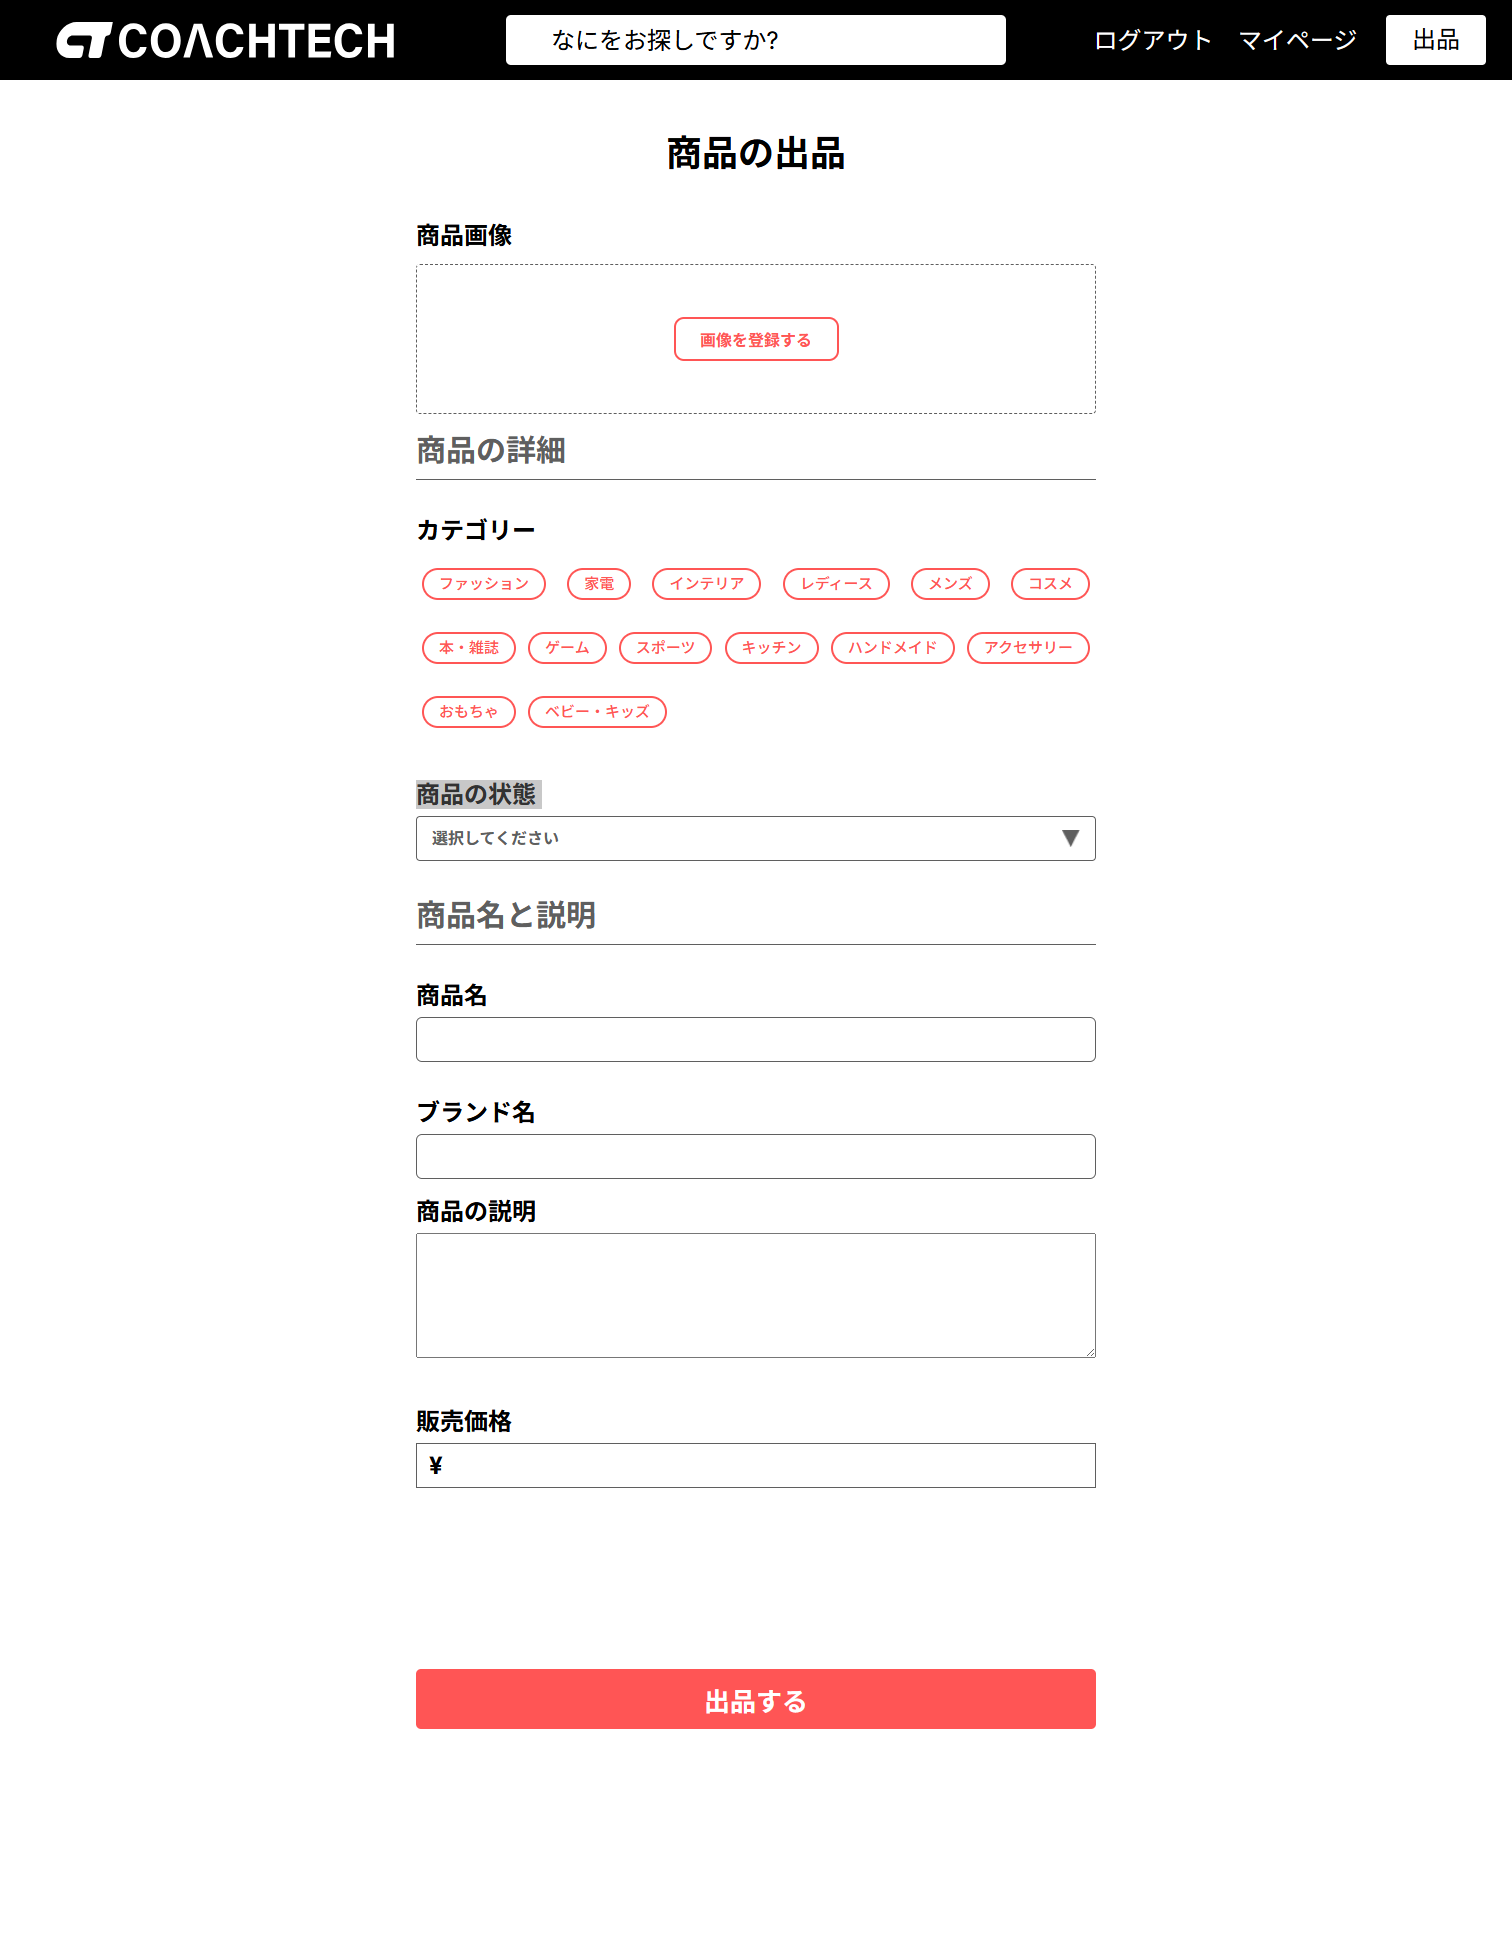
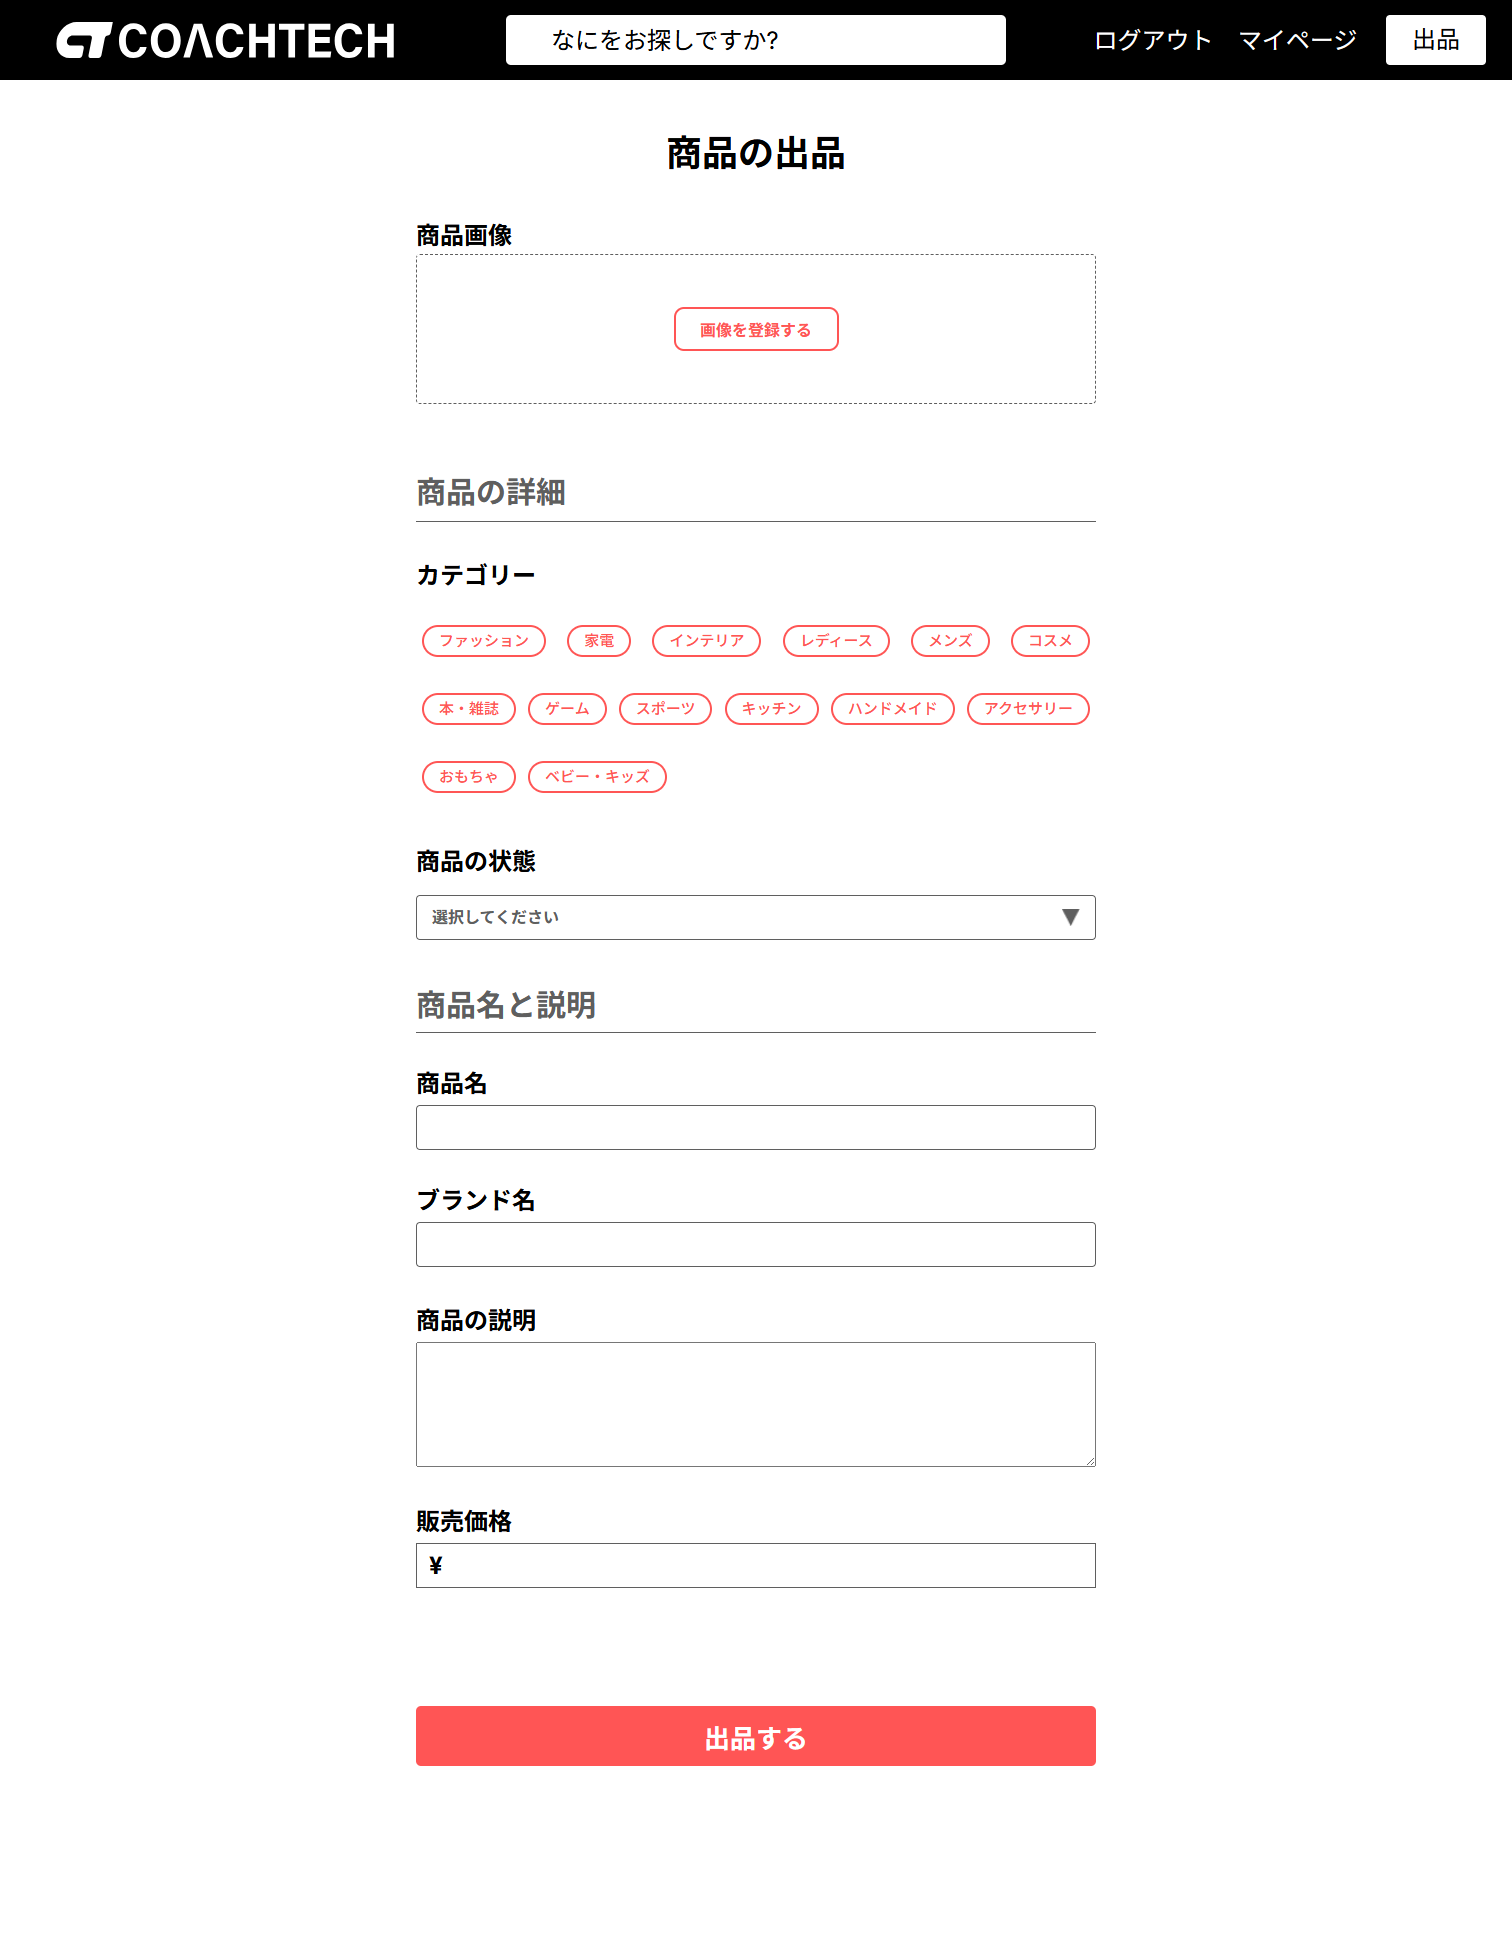
sellページマージン調整

Changed region(s): [[0.2798, 0.2157, 0.7149, 0.8012], [0.2798, 0.832, 0.746, 0.9245], [0.4352, 0.1541, 0.5595, 0.1849]]

diff --git a/src/public/css/sell.css b/src/public/css/sell.css
@@ -1,6 +1,18 @@
+.content-container {
+    width: 680px;
+    margin: 0 auto;
+    padding: 0;
+    display: flex;
+    flex-direction: column;
+    align-items: center;
+    justify-content: center;
+    text-align: center;
+}
+
 /* 商品出品画面 */
 .content-title {
     width: 180px;
+    height: 44px;
     line-height: 44px;
     font-size: 36px;
     margin: 51px auto 43px;
@@ -8,18 +20,22 @@
 }
 
 .sell-form {
-    width: 680px;
+    width: 100%;
     margin: 0 auto;
     padding: 0;
 }
 
-.section-title {
+.image-section {
+    margin-bottom: 52px;
+}
+
+.image-section-title {
     width: 100%;
+    height: 36px;
     font-size: 24px;
     line-height: 36px;
     text-align: left;
     color: rgba(0, 0, 0, 1);
-    margin-bottom: 10px;
 }
 
 /* 画像アップロード */
@@ -53,15 +69,14 @@
     line-height: 43.46px;
     border: 2px solid rgba(255, 85, 85, 1);
     color: rgba(255, 86, 85, 1);
-    background-color: #FFFFFF;
+    background-color: rgba(255, 255, 255, 1);
     border-radius: 10px;
     font-size: 16px;
-    box-sizing: border-box;
 }
 
 .image-upload-button:hover {
-    background-color: #FF5555;
-    color: white;
+    background-color: rgba(255, 86, 85, 1);
+    color: rgba(255, 255, 255, 1);
 }
 
 .upload-image-input {
@@ -82,14 +97,6 @@
     text-align: left;
 }
 
-.image-section-title {
-    width: 150px;
-    height: 36px;
-    color: #5F5F5F;
-    margin-top: 70px;
-    font-size: 24px;
-}
-
 .section-title {
     width: 150px;
     height: 36px;
@@ -105,16 +112,22 @@
     margin-bottom: 36px;
 }
 
+/* 商品の詳細セクション */
 .form-section-title {
     width: 100%;
+    height: 36px;
     line-height: 36px;
     color: rgba(95, 95, 95, 1);
     font-size: 30px;
 }
 
+.form-section-title-tight {
+    height: 46px;
+}
+
 .form-section-line {
     border: 1px solid rgba(95, 95, 95, 1);
-    margin-bottom: 36px;
+    margin-bottom: 35px;
 }
 
 /* フォーム要素 */
@@ -125,21 +138,88 @@
 .form-label {
     display: block;
     font-size: 24px;
+    height: 29px;
     line-height: 29px;
     color: rgba(0, 0, 0, 1);
-    margin-bottom: 7px;
+    margin-bottom: 19px;
     text-align: left;
 }
 
 .form-input {
     width: 100%;
     height: 45px;
-    padding-left: 15px;
+    padding: 0 15px;
     border: 1px solid rgba(95, 95, 95, 1);
     color: rgba(95, 95, 95, 1);
-    border-radius: 6px;
+    border-radius: 4px;
     font-size: 16px;
+}
+
+.form-label-category {
+    height: 36px;
+    line-height: 36px;
+    margin-bottom: 13px;
+}
+
+/* カテゴリーボタン */
+.category-buttons {
+    display: flex;
+    flex-wrap: wrap;
+    justify-content: space-between;
+}
+
+.category-button {
+    display: flex;
+    align-items: center;
+    justify-content: center;
+    padding: 8px 15px;
+    height: 32px;
+    border: 2px solid rgba(255, 86, 85, 1);
+    color: rgba(255, 86, 85, 1);
+    background-color: rgba(255, 255, 255, 1);
+    border-radius: 20px;
     box-sizing: border-box;
+    margin: 18px 6px;
+}
+
+.category-buttons::after {
+    content: "";
+    flex: auto;
+}
+
+/* チェックボックスが選択されている時のスタイル */
+.category-button:has(.category-checkbox:checked) {
+    background-color: rgba(255, 86, 85, 1);
+    border-color: rgba(255, 86, 85, 1);
+    color: rgba(255, 255, 255, 1);
+}
+
+.category-button:has(.category-checkbox:checked):hover {
+    background-color: rgba(255, 86, 85, 1);
+    border-color: rgba(255, 86, 85, 1);
+    color: rgba(255, 255, 255, 1);
+}
+
+.category-checkbox {
+    display: none;
+}
+
+.category-text {
+    font-size: 15px;
+    font-weight: 500;
+    line-height: 32px;
+}
+
+.label-tight {
+    margin-bottom: 7px;
+}
+
+.brand-group {
+    margin-bottom: 39px;
+}
+
+.condition-group {
+    margin-bottom: 29px;
 }
 
 .form-select {
@@ -172,7 +252,6 @@
     left: -9999px;
     opacity: 0;
 }
-
 
 /* カスタムセレクトボックス */
 .custom-select {
@@ -239,6 +318,7 @@
     cursor: pointer;
     vertical-align: middle;
     border-radius: 5px;
+    font-weight: 600;
 }
 
 .check-mark {
@@ -281,19 +361,9 @@
     color: rgba(234, 234, 234, 1);
 }
 
-
-
 .form-input:focus,
 .form-textarea:focus {
     outline: 1px solid rgba(177, 177, 177, 1);
-}
-
-.label-description {
-    margin-top: 18px;
-}
-
-.form-textarea {
-    margin-bottom: 9px;
 }
 
 .form-textarea {
@@ -303,54 +373,6 @@
 }
 
 
-/* カテゴリーボタン */
-.category-buttons {
-    display: flex;
-    flex-wrap: wrap;
-    justify-content: space-between;
-}
-
-.category-button {
-    display: flex;
-    align-items: center;
-    justify-content: center;
-    padding: 8px 15px;
-    height: 32px;
-    border: 2px solid rgba(255, 86, 85, 1);
-    color: rgba(255, 86, 85, 1);
-    /*background-color: #FFFFFF;*/
-    border-radius: 20px;
-    box-sizing: border-box;
-    margin: 16px 6px;
-}
-
-.category-buttons::after {
-    content: "";
-    flex: auto;
-}
-
-/* チェックボックスが選択されている時のスタイル */
-.category-button:has(.category-checkbox:checked) {
-    background-color: rgba(255, 86, 85, 1);
-    border-color: rgba(255, 86, 85, 1);
-    color: rgba(255, 255, 255, 1);
-}
-
-.category-button:has(.category-checkbox:checked):hover {
-    background-color: rgba(255, 86, 85, 1);
-    border-color: rgba(255, 86, 85, 1);
-    color: rgba(255, 255, 255, 1);
-}
-
-.category-checkbox {
-    display: none;
-}
-
-.category-text {
-    font-size: 15px;
-    font-weight: 500;
-    line-height: 32px;
-}
 
 /* 価格入力 */
 .price-input-group {
@@ -382,6 +404,12 @@
     border-color: transparent;
 }
 
+.button-section {
+    width: 100%;
+    margin-top: 100px;
+    margin-bottom: 152px;
+
+}
 /* 出品ボタン */
 .submit-button {
     width: 100%;
@@ -391,8 +419,6 @@
     border: none;
     border-radius: 5px;
     font-size: 26px;
-    margin-top: 145px;
-    margin-bottom: 152px;
 }
 
 .submit-button:hover {

diff --git a/src/resources/views/sell.blade.php b/src/resources/views/sell.blade.php
@@ -26,8 +26,8 @@
         @endif
         <form action="{{ route('sell.store') }}" method="POST" enctype="multipart/form-data" class="sell-form">
             @csrf
-            <div class="form-section">
-                <p class="section-title">商品画像</p>
+            <div class="form-section image-section">
+                <p class="image-section-title">商品画像</p>
                 <div class="image-preview" id="image-preview">
                     <div class="image-placeholder">
                         <button type="button" class="image-upload-button button"
@@ -64,7 +64,7 @@
                         @enderror
                     </p>
                 </div>
-                <div class="form-group">
+                <div class="form-group condition-group">
                     <label class="form-label" for="condition">商品の状態</label>
                     <div class="select-wrapper">
                         <div class="custom-select" id="custom_condition_select">
@@ -103,11 +103,11 @@
                 </p>
             </div>
             <div class="form-section">
-                <div class="form-section-title-container">
+                <div class="form-section-title-container form-section-title-tight">
                     <p class="form-section-title">商品名と説明</p>
                 </div>
                 <div class="form-group">
-                    <label class="form-label" for="name">商品名</label>
+                    <label class="form-label label-tight" for="name">商品名</label>
                     <input type="text" name="name" id="name" class="form-input" value=""
                         autocomplete="off">
                     <p class="form__error">
@@ -116,13 +116,13 @@
                         @enderror
                     </p>
                 </div>
-                <div class="form-group">
-                    <label class="form-label" for="brand">ブランド名</label>
+                <div class="form-group brand-group">
+                    <label class="form-label label-tight" for="brand">ブランド名</label>
                     <input type="text" name="brand" id="brand" class="form-input" value="{{ old('brand') }}"
                         autocomplete="off">
                 </div>
                 <div class="form-group">
-                    <label class="form-label label-description" for="description">商品の説明</label>
+                    <label class="form-label label-tight" for="description">商品の説明</label>
                     <textarea name="description" id="description" class="form-textarea" rows="5" autocomplete="off">{{ old('description') }}</textarea>
                     <p class="form__error">
                         @error('description')
@@ -133,7 +133,7 @@
             </div>
             <div class="form-section">
                 <div class="form-group">
-                    <label class="form-label" for="price">販売価格</label>
+                    <label class="form-label label-tight" for="price">販売価格</label>
                     <div class="price-input-group">
                         <span class="price-symbol">¥</span>
                         <input type="text" name="price" id="price" class="form-input price-input"
@@ -146,7 +146,7 @@
                     </p>
                 </div>
             </div>
-            <div class="form-section">
+            <div class="button-section">
                 <button type="submit" class="submit-button button">出品する</button>
             </div>
         </form>
